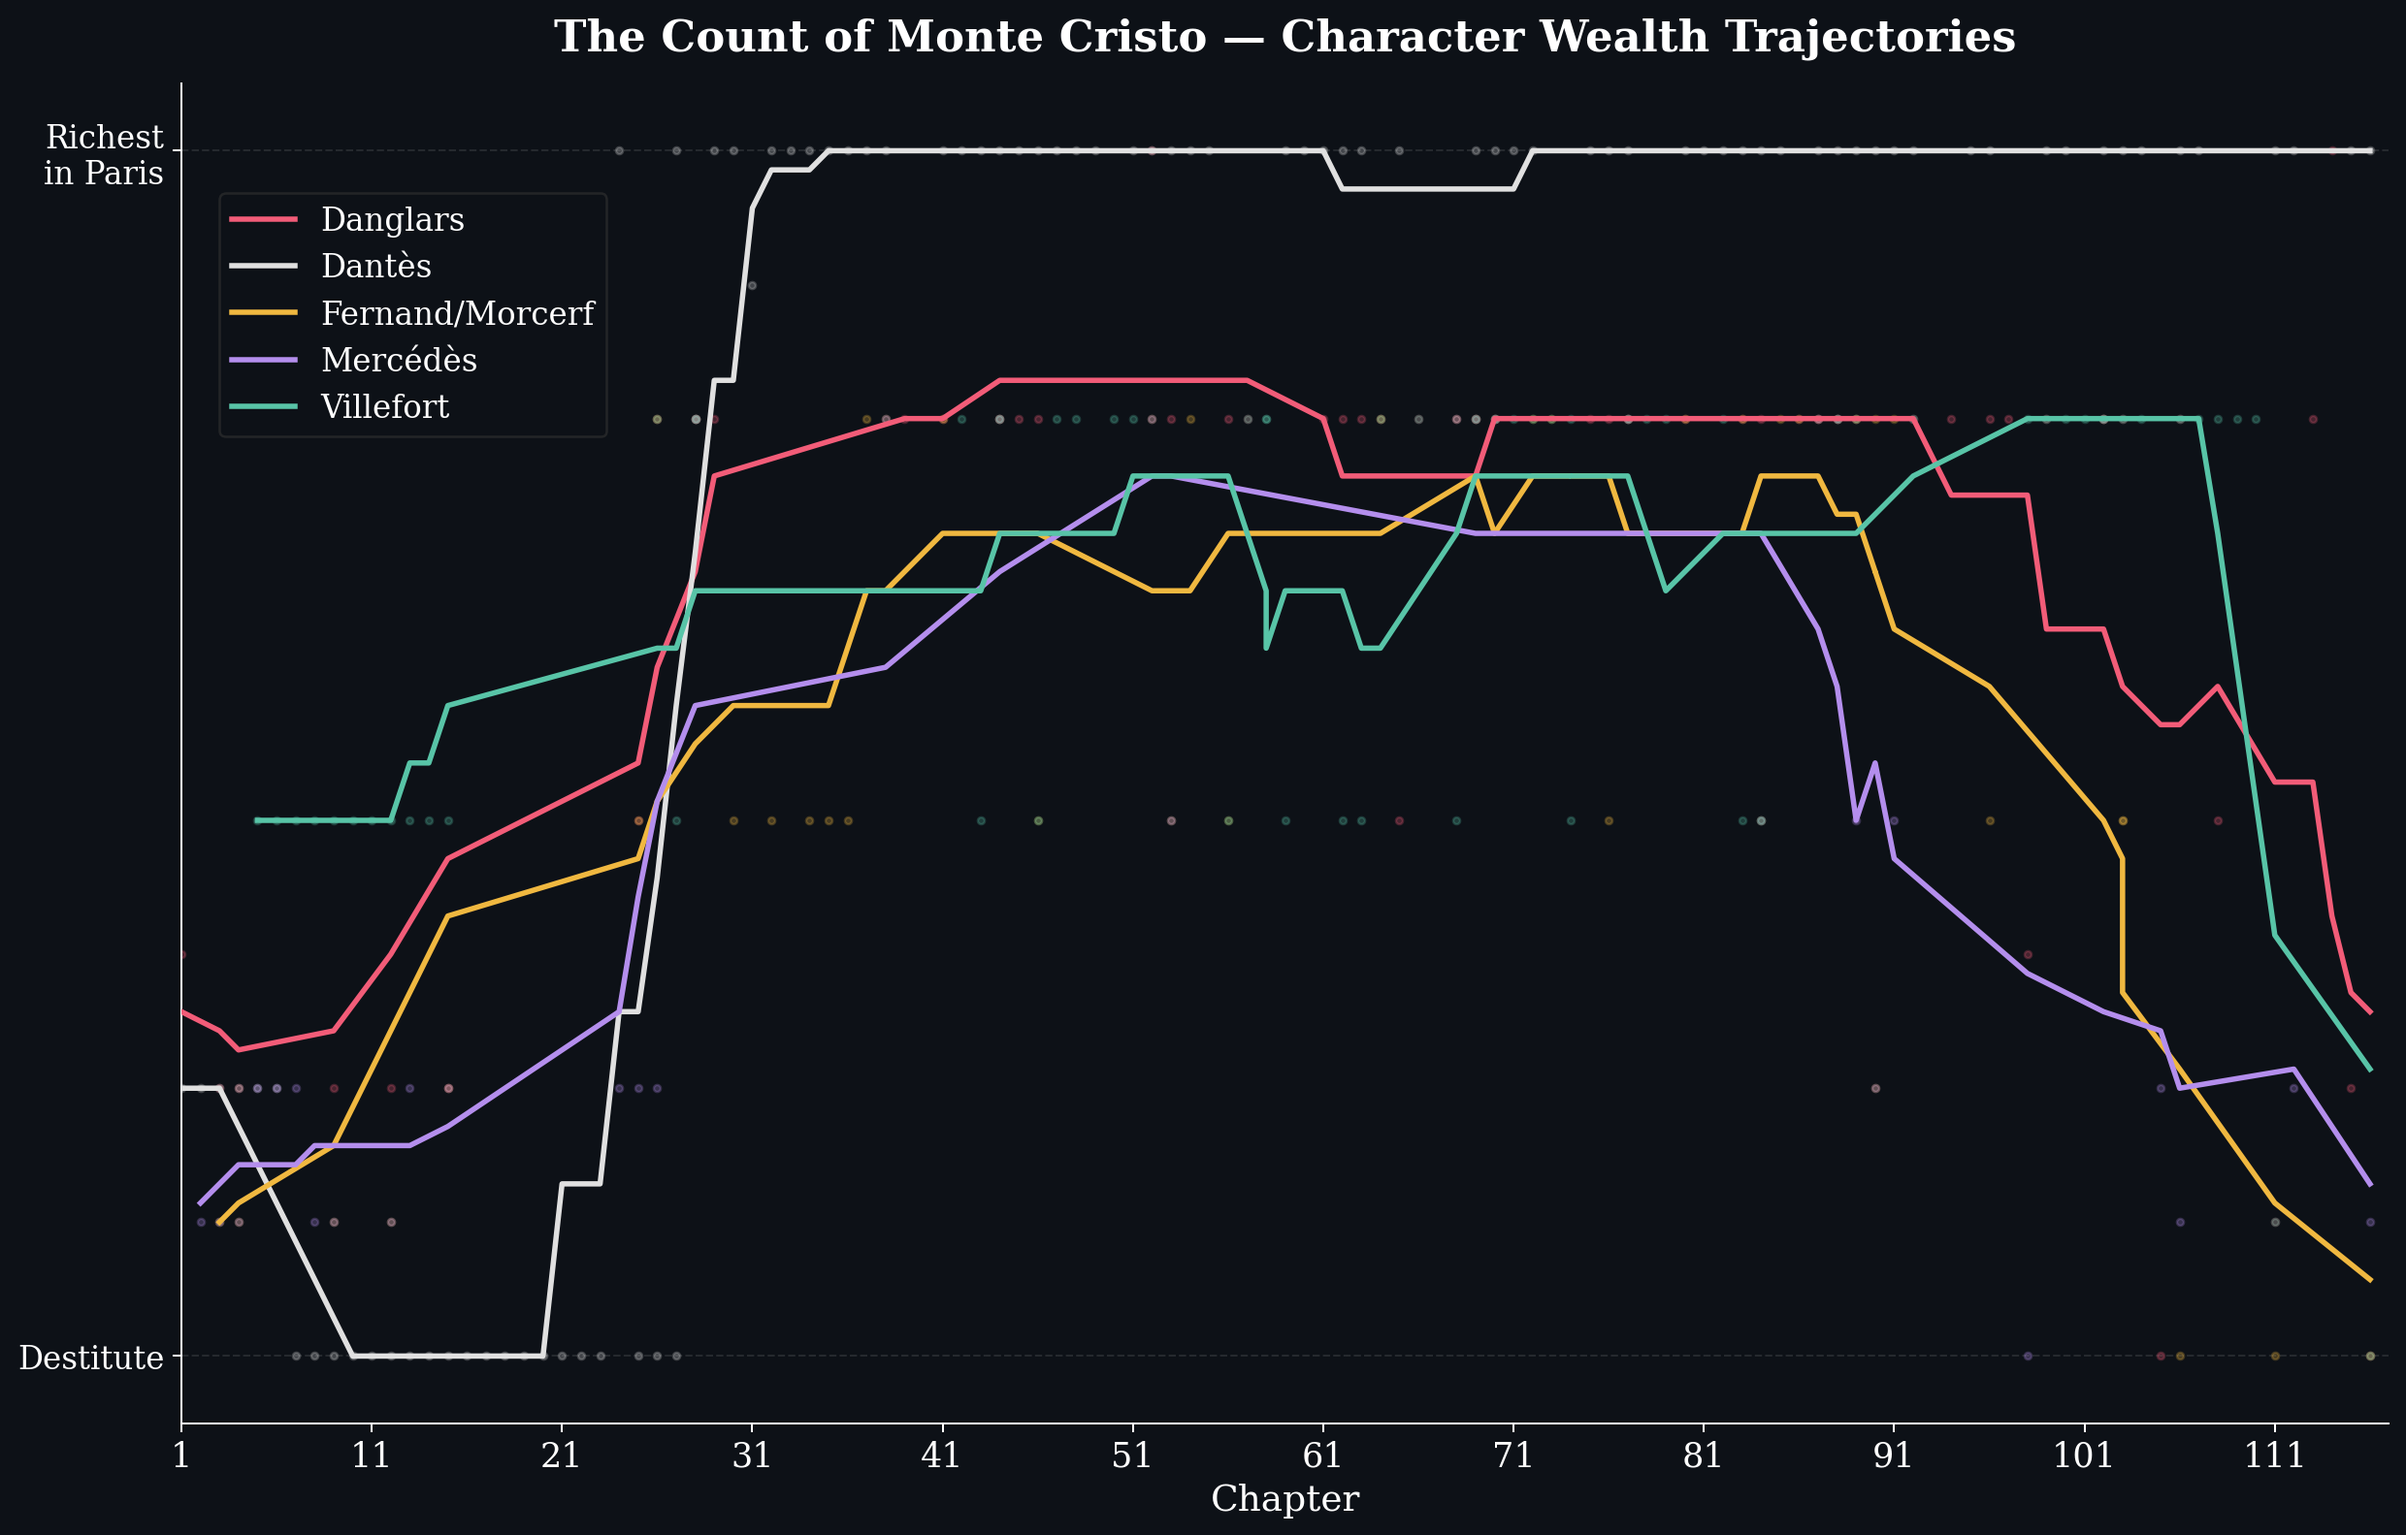
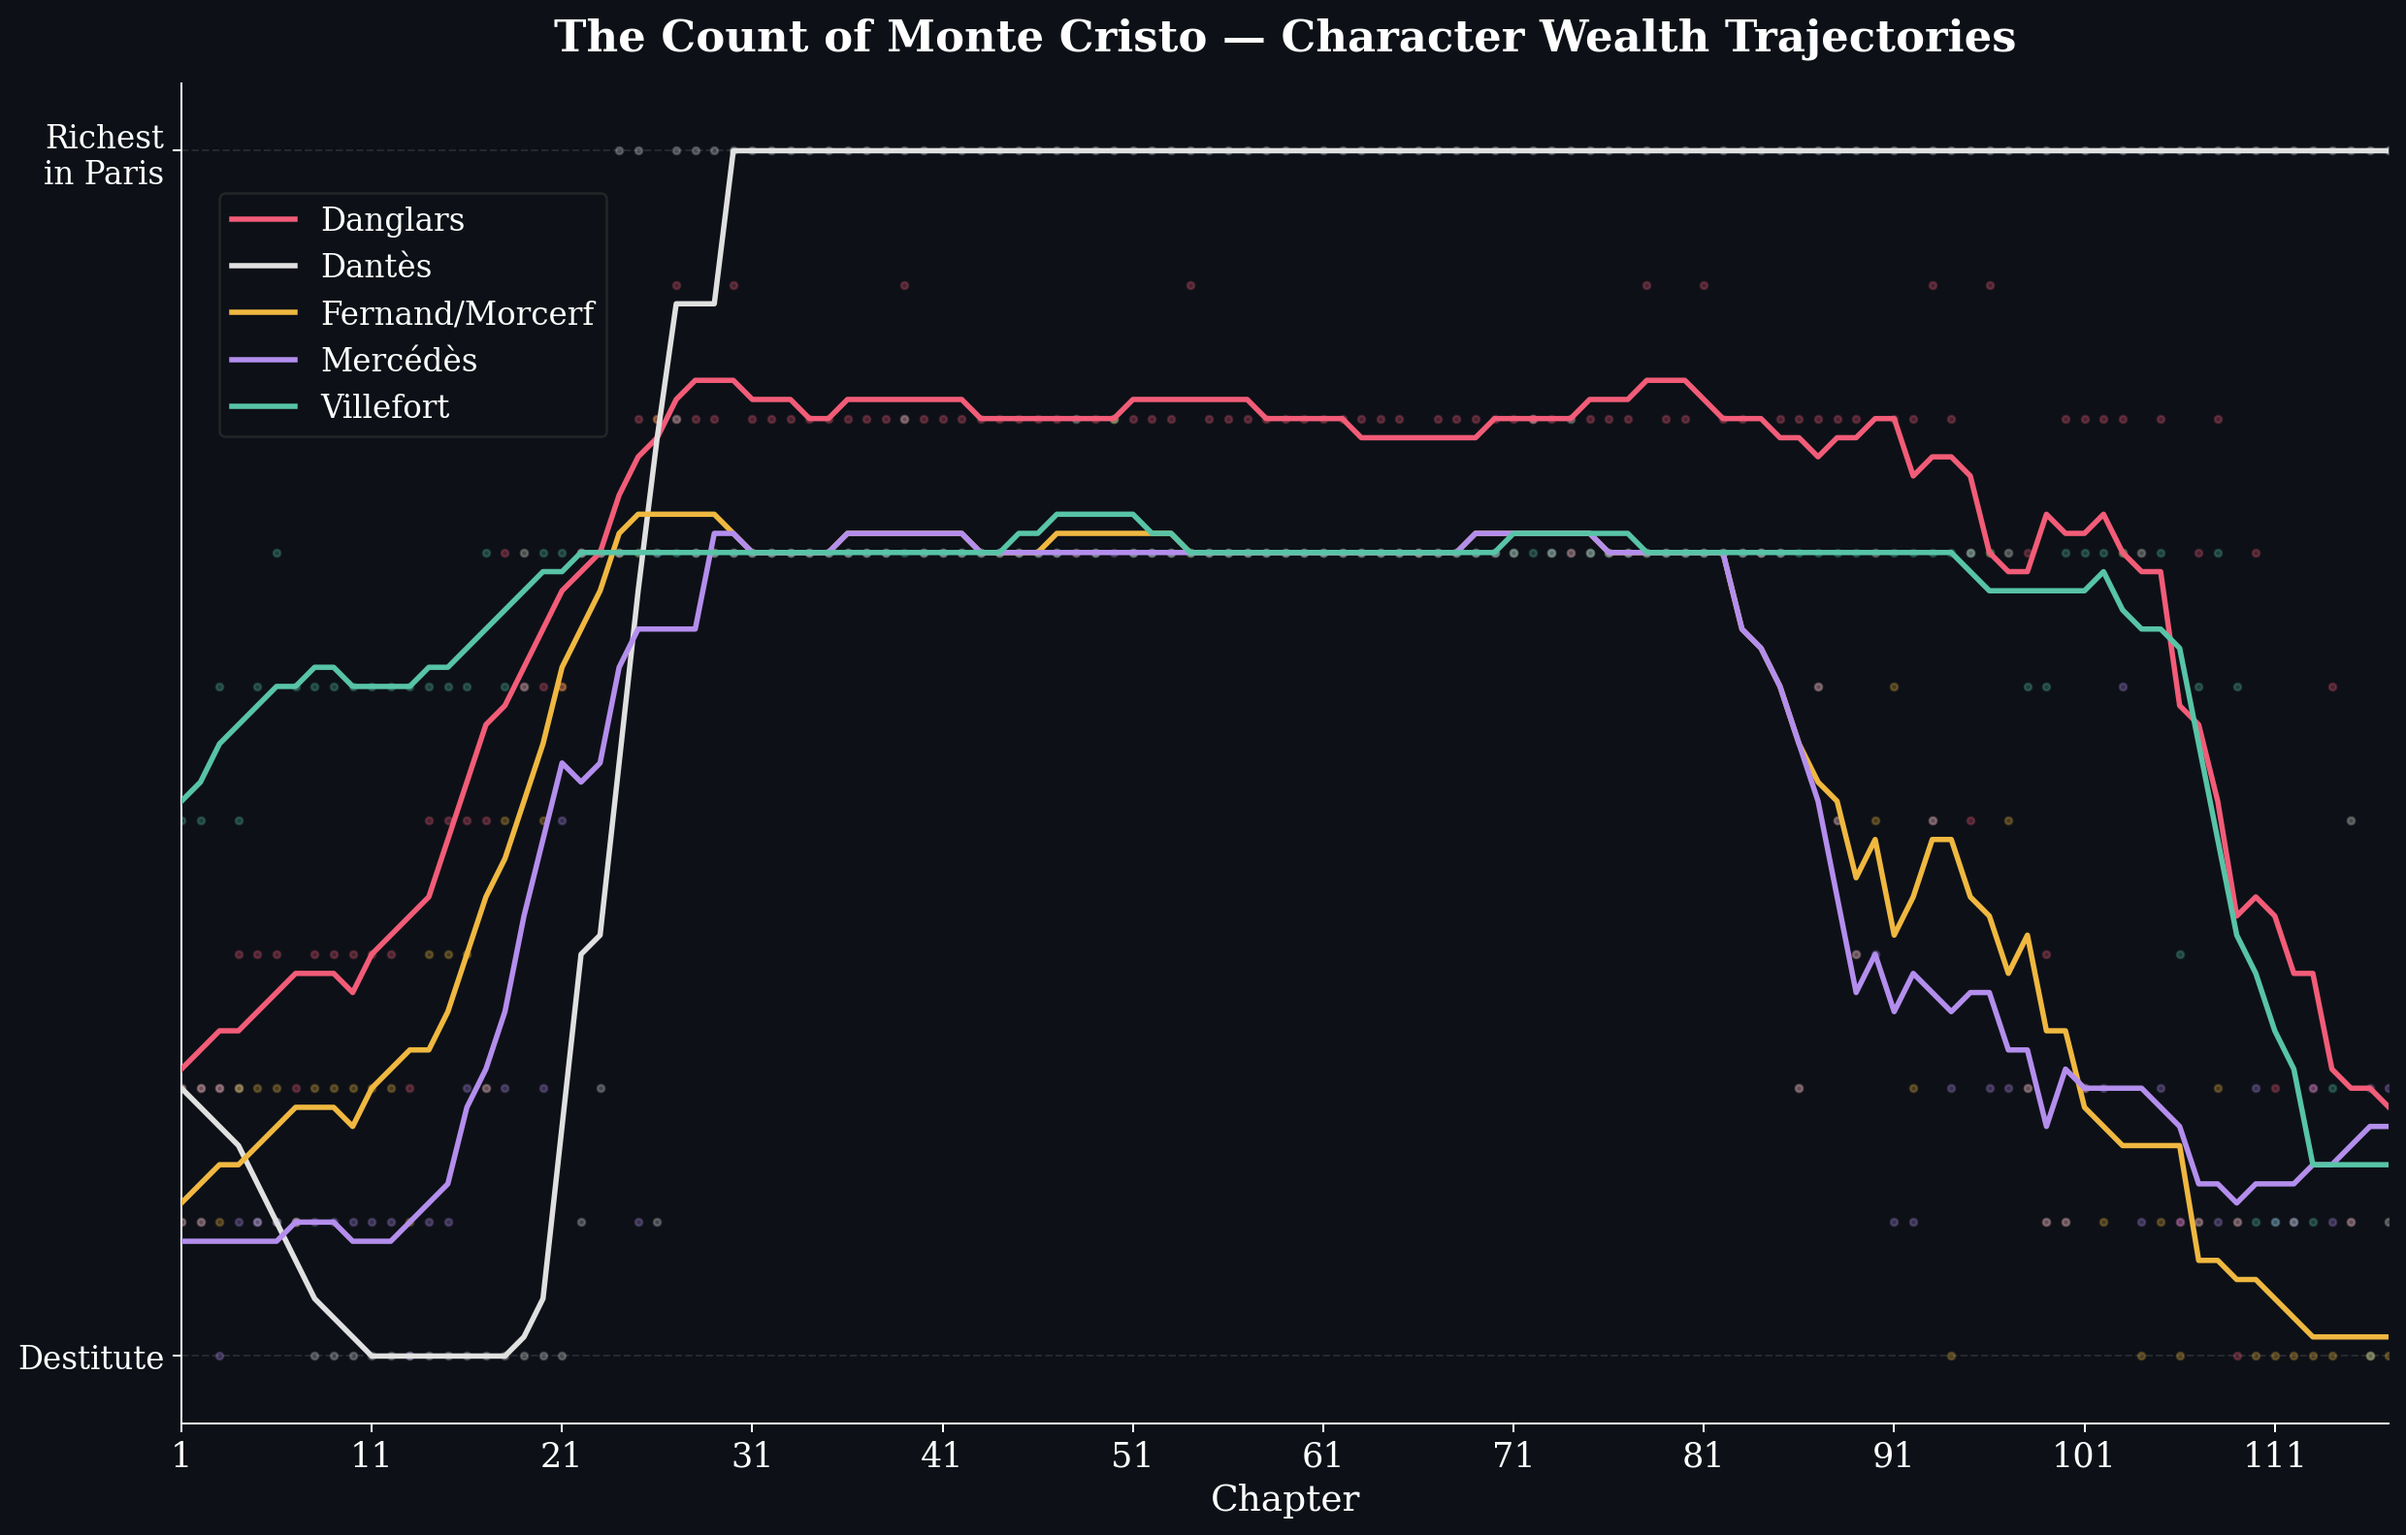
chore(guides): update model in DSPy RLMs guide and add validation code (#4113)

diff --git a/guides/python/dspy-rlms/demo.py b/guides/python/dspy-rlms/demo.py
@@ -59,7 +59,7 @@ def fetch_chapters() -> list[str]:
 
 # ── Configure DSPy ───────────────────────────────────────────────────────────
 
-lm = dspy.LM("openrouter/google/gemini-3-flash-preview")
+lm = dspy.LM("openrouter/anthropic/claude-sonnet-4.6")
 dspy.configure(lm=lm)
 
 # ── Run RLM analysis ────────────────────────────────────────────────────────
@@ -102,6 +102,9 @@ finally:
 # ── Plot ─────────────────────────────────────────────────────────────────────
 
 # Group by character
+required_keys = {"chapter", "character", "wealth"}
+wealth_data = [r for r in wealth_data if required_keys <= r.keys()]
+
 series = defaultdict(lambda: ([], []))
 for row in wealth_data:
     xs, ys = series[row["character"]]

diff --git a/guides/python/dspy-rlms/README.md b/guides/python/dspy-rlms/README.md
@@ -138,7 +138,7 @@ from daytona_interpreter import DaytonaInterpreter
 load_dotenv()
 
 # Configure the LLM
-lm = dspy.LM("openrouter/google/gemini-3-flash-preview")
+lm = dspy.LM("openrouter/anthropic/claude-sonnet-4.6")
 dspy.configure(lm=lm)
 
 # Create an RLM with the Daytona interpreter
@@ -168,7 +168,7 @@ from daytona_interpreter import DaytonaInterpreter
 
 load_dotenv()
 
-lm = dspy.LM("openrouter/google/gemini-3-flash-preview")
+lm = dspy.LM("openrouter/anthropic/claude-sonnet-4.6")
 dspy.configure(lm=lm)
 
 # Define tools that run on the host
